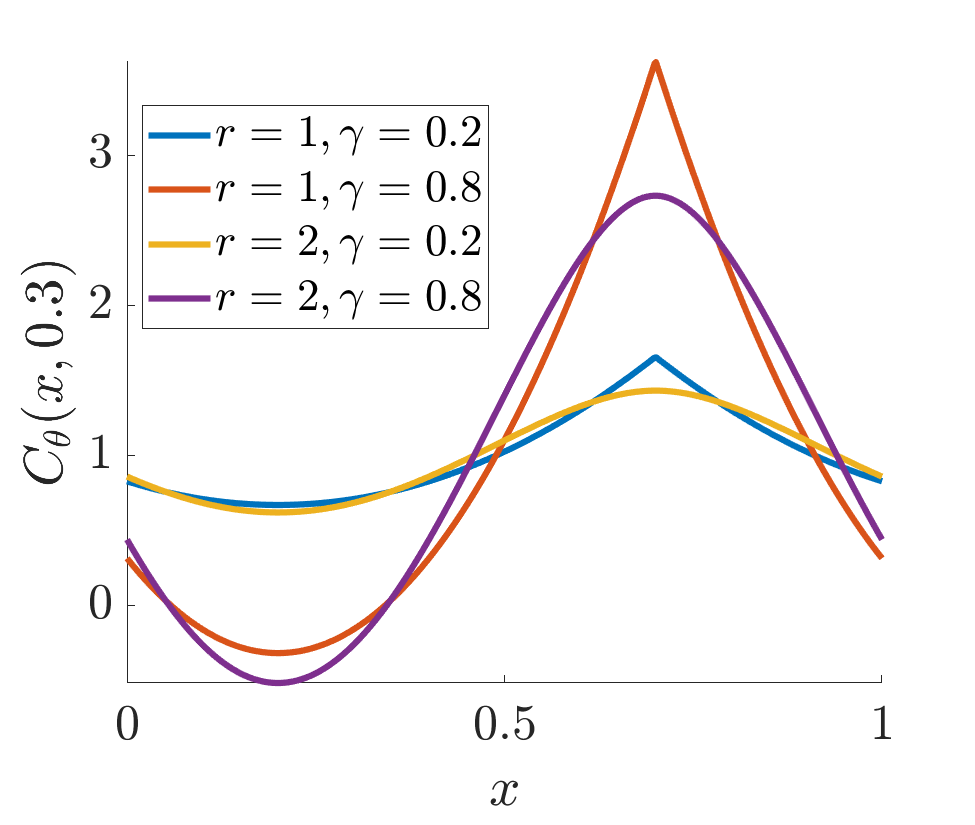
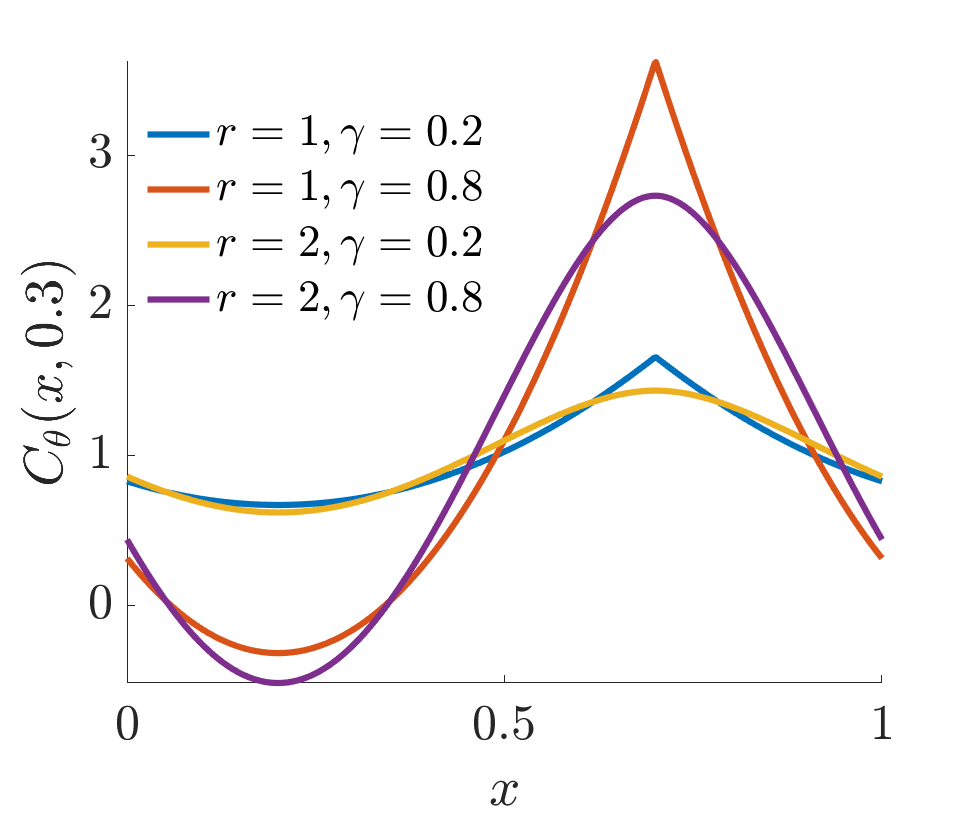
update changes

diff --git a/GAIL_Matlab/Papers/Thesis/Jagadees/Paper2018/BayesianCubaturePaper2018.tex b/GAIL_Matlab/Papers/Thesis/Jagadees/Paper2018/BayesianCubaturePaper2018.tex
@@ -188,7 +188,7 @@
 
 \providecommand{\argmin}{\operatorname*{argmin}}
 \providecommand{\argmax}{\operatorname*{argmax}}
-\newcommand\figref{Fig.~\ref}
+\newcommand\figref{Figure~\ref}
 \newcommand\secref{Section~\ref}
 
 \graphicspath{{./figures/}{D:/Mega/MyWriteupBackup/Sep_2ndweek_1/}}
@@ -203,7 +203,7 @@
 \newcommand{\JRNote}[1]{{\textcolor{green}{JR: #1}}}
 
 
-\allowdisplaybreaks[4]
+%\allowdisplaybreaks[4]
 \begin{document}
 \setlength\abovedisplayskip{1pt}
 \setlength{\belowdisplayskip}{1pt}
@@ -251,13 +251,13 @@
 
 \begin{abstract}
 Automatic cubatures approximate multidimensional integrals to user-specified error tolerances.  For high dimensional problems, it makes sense to fix the sampling density but determine the 
-sample size, $n$, automatically. Bayesian cubature postulates that the integrand is an instance of a stochastic process.  Here we assume a Gaussian process parameterized by a constant mean and a covariance function defined by a scale parameter and a function specifying how the integrand values at two different points in the domain are related.
-These parameters are estimated from integrand values or are given non-informative priors.  This leads to credible interval for the integral.  The sample size, $n$, is chosen to make the credible interval for the Bayesian posterior error no greater than the error tolerance. 
+sample size, $n$, automatically. Bayesian cubature postulates that the integrand is an instance of a stochastic process.  Here we assume a Gaussian process parameterized by a constant mean and a covariance function defined by a scale parameter times a parameterized function specifying how the integrand values at two different points in the domain are related.
+These parameters are estimated from integrand values or are given non-informative priors.  The sample size, $n$, is chosen to make the half-width of the credible interval for the Bayesian posterior mean no greater than the error tolerance. 
 
-However, the process just outlined typically requires vector-matrix operations  with a computational cost of $O(n^3)$. Our innovation is to pair low discrepancy nodes with matching kernels that lower the  computational cost to $O(n \log n)$.   This approach is demonstrated using rank-1 lattice sequences and shift-invariant kernels.  It is also implemented in the Guaranteed Automatic Integration Library (GAIL).
+The process just outlined typically requires vector-matrix operations  with a computational cost of $O(n^3)$. Our innovation is to pair low discrepancy nodes with matching kernels that lower the  computational cost to $O(n \log n)$.   This approach is demonstrated using rank-1 lattice sequences and shift-invariant kernels.  Our algorithm is  implemented in the Guaranteed Automatic Integration Library (GAIL).
 
 
-\keywords{Bayesian cubature \and Probabilistic numeric methods \and GAIL}
+\keywords{Bayesian cubature \and Fast automatic cubature \and GAIL \and Probabilistic numeric methods }
 % \PACS{PACS code1 \and PACS code2 \and more}
 % \subclass{MSC code1 \and MSC code2 \and more}
 \end{abstract}
@@ -265,23 +265,23 @@ However, the process just outlined typically requires vector-matrix operations  
 \section{Introduction}
 \label{intro}
 Cubature is the problem of inferring a numerical value for an integral, 
-$ \mu := \int_{\reals^d} g(\vx) \, \dif \vx$, where $\mu$ has no closed form analytic expression. Typically, $g$ is accessible through a black-box function. 
+$ \mu := \int_{\reals^d} g(\vx) \, \dif \vx$, where $\mu$ has no closed form analytic expression. Typically, $g$ is accessible as a black-box algorithm. 
 Cubature is a key component of many problems in scientific computing, finance, statistical modeling, and machine learning.  
 
 The integral may often be expressed as
 \begin{align}
 \label{eqn:defn_mu}
-\mu:= \mu(f) := \Ex[f(\boldsymbol{X})] = \int_{[0,1]^d} f(\vx)\, \dif\vx, 
+\mu:= \Ex[f(\boldsymbol{X})] = \int_{[0,1]^d} f(\vx)\, \dif\vx, 
 \end{align}
-where $f:[0,1]^d \to \reals$ is the integrand, and $\boldsymbol{X} \sim \mathcal{U}[0,1]^d$.  The process of transforming the original integral into the form of \eqref{eqn:defn_mu} is not addressed here. See \cite{Caf98,HicSloWas03c,HicSloWas03b,HicSloWas03a,HicSloWas03e}
-for some discussion of variable transformations and the related error analysis. The cubature may be an affine function of integrand values:
+where $f:[0,1]^d \to \reals$ is the integrand, and $\boldsymbol{X} \sim \mathcal{U}[0,1]^d$.  The process of transforming the original integral into the form of \eqref{eqn:defn_mu} is not addressed here. See \cite[Section 2.11]{DicEtal14a} 
+for a discussion of variable transformations. The cubature may be an affine function of integrand values:
 \begin{align}
 \label{eqn:defn_hmu}  % remove this
-\hmu: = \hmu(f) := w_0 + \sum_{i=1}^{n} f(\vx_i) w_i,
+\hmu := w_0 + \sum_{i=1}^{n} f(\vx_i) w_i,
 \end{align}
 where the weights, $w_0$, and  $\vw = (w_i)_{i=1}^n \in \reals^n$, and the nodes, $\{\vx_i\}_{i=1}^n \subset [0,1]^d$, are chosen to make the error, $\abs{\mu - \hmu}$, small. The integration domain $[0,1]^d$ is convenient for the low discrepancy node sets \cite{DicEtal14a,SloJoe94} that we use.  The nodes are assumed to be deterministic.
 
-We construct a reliable stopping criterion that determines the number of integrand values required, $n$, to ensure that the error is no greater than a user-defined error tolerance denoted by $\varepsilon$, i.e., 
+We construct a reliable stopping criterion that determines the number of integrand values, $n$, required to ensure that the error is no greater than a user-defined error tolerance denoted by $\varepsilon$, i.e., 
 \begin{align}
 \label{eqn:err_crit} 
 \abs{\mu - \hmu} \leq \errtol .
@@ -290,9 +290,9 @@ Rather than relying on strong assumptions about the integrand, such as an upper 
 
 The primary contribution of this article is to demonstrate how the choice of a family of covariance kernels that match the low discrepancy sampling nodes facilitates fast computation of the cubature and the data-driven stopping criterion.  Our cubature requires $n$ function values---at a cost of $\$(f)$ each---plus $\Order(n \log(n))$ operations to check whether the error tolerance is satisfied.  The total cost of our algorithm is then $\Order(n [\$(f) + \log(n)])$.  This is significantly fewer operations than the $\Order(n^3)$ typically required for Bayesian cubature.  If function evaluation is expensive, then $\$(f)$ might be similar in magnitude to $\log(n)$.
 
-Hickernell~\cite{Hic17a} compares different approaches to cubature error analysis depending on whether the rule is deterministic or random and whether the integrand is assumed to be deterministic or random.  Error analysis that assumes a deterministic integrand lying in a Banach space leads to an error bound that is typically impractical for deciding how large $n$ must be to satisfy \eqref{eqn:err_crit}.  The deterministic error bound includes a (semi-) norm of the integrand, which is often more complex to compute than the original integral.
+Hickernell~\cite{Hic17a} compares different approaches to cubature error analysis depending on whether the rule is deterministic or random and whether the integrand is assumed to be deterministic or random.  Error analysis that assumes a deterministic integrand lying in a Banach space leads to an error bound that is typically impractical for deciding how large $n$ must be to satisfy \eqref{eqn:err_crit}.  The deterministic error bound includes a (semi-) norm of the integrand, often called the variation, which is often more complex to compute than the original integral.
 
-Hickernell and Jim\'enez-Rugama~\cite{HicJim16a,JimHic16a} have developed stopping criteria for cubature rules based on low discrepancy nodes by tracking the decay of the discrete Fourier coefficients of the integrand.  The algorithm proposed here also relies on discrete Fourier coefficients, but in a different way.  Although we only explore automatic Bayesian cubature for absolute error tolerances, the recent work by Hickernell, Jim\'enez-Rugama, and Li~\cite{HicEtal17a} suggest how one might accommodate more general error criteria, such as relative error tolerances.
+Hickernell and Jim\'enez-Rugama~\cite{HicJim16a,JimHic16a} have developed stopping criteria for cubature rules based on low discrepancy nodes by tracking the decay of the discrete Fourier coefficients of the integrand.  The algorithm proposed here also relies on discrete Fourier coefficients, but in a different way.  Although we only explore automatic Bayesian cubature for absolute error tolerances, the recent work by Hickernell, Jim\'enez-Rugama, and Li~\cite{HicEtal17a} suggests how one might accommodate more general error criteria, such as relative error tolerances.
 
 Section \ref{sec:BC} explains the Bayesian approach to estimate the posterior cubature error and defines our automatic Bayesian cubature. Although much of this material is known, it is included for completeness.  We end Section \ref{sec:BC}  by demonstrating why Bayesian cubature is typically computationally expensive.
 Section \ref{sec:fast_BC}  introduces the concept of covariance kernels that match the nodes and expedite the computations required by our automatic Bayesian cubature. 
@@ -312,7 +312,7 @@ Suppose that the integrand, $f$, is drawn from a Gaussian process, i.e., $f \sim
  \text{for all } \va \ne 0, \;
  n\in \mathbb{N}, \; \vx_1, \ldots, \vx_n \in [0,1]^d.
 \end{multline}
-The covariance function, $C$, and the Gram matrix, $\mC$ depend implicitly on $\vtheta$, but the notation may omit this parameter for simplicity's sake.
+The function, $C$, and the Gram matrix, $\mC$ depend implicitly on $\vtheta$, but the notation may omit this parameter for simplicity's sake.
 
 For a Gaussian process, all vectors of linear functionals of $f$ have a multivariate Gaussian distribution. Defining  $\vf  := \left( f(\vx_i)\right)_{i=1}^n$ as the multivariate normal vector of function values, it follows that 
 \begin{subequations} \label{eqn:fGaussDist}
@@ -326,7 +326,7 @@ c_0 &= \int_{[0,1]^{d}\times [0,1]^{d}} C_\vtheta(\vx,\vt) \, \dif{\vx} \, \dif{
 \cov(\vf, \mu) &= \left(  \int_{[0,1]^d} C(\vt,\vx_i) \, \D \vt \right)_{i=1}^n  =: \vc.
 \end{align}
 \end{subequations}
-We need the following lemma to derive the posterior error of our cubature. 
+We need the following lemma to derive the distribution of the posterior error of our cubature. 
 
 \begin{lemma} \cite[(A.6), (A.11--13)]{RasWil06a} \label{thrm:condDist} If $\vY = (\vY_1, \vY_2)^T \sim \calN (\vm,\mC)$, where $\vY_1$ and $\vY_2$ are random vectors of arbitrary length, and 
 	\begin{gather*}
@@ -378,17 +378,21 @@ s^2 (c_0 - \vc^T\mC^{-1}\vc)
 \right).
 \end{align*}
 A credible interval for the integral is given given by 
-\begin{align}
-\label{eqn_prob_confidence_interval}
+\begin{subequations} \label{eqn_prob_confidence_interval}
+\begin{gather}
 \mathbb{P}_f \left[
-|\mu-\hmu| \leq  2.58 s \sqrt{c_0 - \vc^T\mC^{-1}\vc } 
-\right] = 99\%.
-\end{align}
+|\mu-\hmu| \leq \err_{\textup{CI}}
+\right] = 99\%, \\
+\err_{\textup{CI}} = 2.58 s \sqrt{c_0 - \vc^T\mC^{-1}\vc}
+\end{gather}
+\end{subequations}
 Naturally, $2.58$ and $99\%$ can be replaced by other quantiles and credible levels.
 
 
 \subsection{Parameter estimation}
-The credible interval in \eqref{eqn_prob_confidence_interval} suggests how our automatic Bayesian cubature proceeds.  Integrand data is accumulated until the width of the credible interval is no greater than the error tolerance.  However, the credible interval still depends on the parameters $m, s$, and $\vtheta$.  These should not be assumed a priori but be inferred from the data.  This section describes three approaches.
+The credible interval in \eqref{eqn_prob_confidence_interval} suggests how our automatic Bayesian cubature proceeds.  Integrand data is accumulated until the width of the credible interval, $\err_{\textup{CI}}$, is no greater than the error tolerance.  As $n$ increases, one expects $\sqrt{c_0 - \vc^T\mC^{-1}\vc}$ to decrease for well-chosen nodes, $\{\vx_i\}_{i=1}^n$.
+
+Note that $\err_{\textup{CI}}$ has no explicit dependence on the integrand values, even though one would intuitively expect that larger integrand should imply a  larger $\err_{\textup{CI}}$.  This is because parameters, $m, s$, and $\vtheta$, have not yet been inferred from integrand data.  After inferring the parameters, $\err_{\textup{CI}}$ does reflect the size of the integrand values. This section describes three approaches to parameter estimation.
 
 \subsubsection{Empirical Bayes}  \label{sec:MLE}
 One approach is to estimate the parameters is via maximum likelihood estimation (MLE).  The log-likelihood function of the parameters given the function data $\vy$ is:
@@ -456,16 +460,17 @@ Rather than use maximum likelihood to determine $m$ and $s$ one can treat them a
 \begin{align*}
 \MoveEqLeft[1]{\rho_{\mu}(z | \vf = \vy)} \\
 & \propto \int_{0}^\infty \int_{-\infty}^\infty \rho_{\mu}(z | \vf = \vy, m = \xi, s^2 = \lambda) \\
-& \qquad \qquad \times  \rho_{\vf}(\vy | \xi, \lambda ) \rho_{m, s^2}(\xi, \lambda) \, \D \xi \D \lambda \\
+& \hspace{2.5cm} \times  \rho_{\vf}(\vy | \xi, \lambda ) \rho_{m, s^2}(\xi, \lambda) \, \D \xi \D \lambda \\
 & \propto \displaystyle \int_{0}^\infty  \frac{1}{\lambda^{(n+3)/2}} \\
 & \times \int_{-\infty}^\infty  \exp \biggl( -\frac{1}{2\lambda}\biggl\{
 \frac{
 [z - \xi (1 - \vc^T \mC^{-1} \vone)  -  \vc^T \mC^{-1} \vy]^2}
 {c_0  -\vc ^T \mC^{-1} \vc}  \\
-& \qquad \qquad  + (\vy - \xi \vone)^T \mC^{-1}(\vy - \xi \vone) \biggr \} \biggr) \, \D \xi \D \lambda \\
-&\qquad \qquad
+& \hspace{1.8cm} + (\vy - \xi \vone)^T \mC^{-1}(\vy - \xi \vone) \biggr \} \biggr) \, \D \xi \D \lambda \\
+& \hspace{2.5cm}
 \text{by \eqref{eqn:fGaussDist}, \eqref{eqn:condInteg}} \; \text{and} \; \rho_{m,s^2}(\xi,\lambda) \propto 1/\lambda \\
-& \propto \displaystyle \int_{0}^\infty  \frac{1}{\lambda^{(n+3)/2}} \cdots \\ & \qquad \cdots \int_{-\infty}^\infty  \exp\left( -\frac{\alpha \xi^2 -2 \beta \xi + \gamma}{2\lambda(c_0  -\vc ^T \mC^{-1} \vc)} \right) \, \D \xi \D \lambda, \\
+& \propto \displaystyle \int_{0}^\infty  \frac{1}{\lambda^{(n+3)/2}} \cdots \\ 
+& \qquad \cdots \int_{-\infty}^\infty  \exp\left( -\frac{\alpha \xi^2 -2 \beta \xi + \gamma}{2\lambda(c_0  -\vc ^T \mC^{-1} \vc)} \right) \, \D \xi \D \lambda, \\
 \intertext{where}
 \alpha & = (1 - \vc^T \mC^{-1} \vone)^2 + \vone^T \mC^{-1} \vone (c_0  -\vc ^T \mC^{-1} \vc),\\
 \beta & =(1 - \vc^T \mC^{-1} \vone)(z - \vc^T \mC^{-1} \vy ) \\
@@ -474,7 +479,7 @@ Rather than use maximum likelihood to determine $m$ and $s$ one can treat them a
 \end{align*}
 In the derivation above and below, factors that are independent of $\xi$, $\lambda$, or $z$ can be discarded since we only need to preserve the proportion.  But, factors that depend on $\xi$, $\lambda$, or $z$ must be kept.  
 %Completing the square allows us to compute the integral with respect to $\xi$:
-Completing the square $
+Completing the square, $
 \alpha \xi^2 -2 \beta \xi + \gamma 
 = \alpha (\xi -\beta/\alpha)^2  - (\beta^2/\alpha) + \gamma,
 $
@@ -588,7 +593,7 @@ The confidence interval based on GCV corresponds to \eqref{eqn_prob_confidence_i
 \right] = 99\%.
 \end{gather}
 
-Looking back over the results of Sections  \ref{sec:MLE}--\ref{sec:GCV}, it is noted that if the original covariance function, $C$, is replaced by $b C$ for some positive constant $b$, the cubature, $\hmu$, the estimates of $\vtheta$, and the credible interval widths, $\err$, all remain unchanged.  The estimates of $s^2$ are multiplied by $b^{-1}$, as would be expected. 
+Looking back over the results of Sections  \ref{sec:MLE}--\ref{sec:GCV}, it is noted that if the original covariance function, $C$, is replaced by $b C$ for some positive constant $b$, the cubature, $\hmu$, the estimates of $\vtheta$, and the credible interval widths, $\err_{\textup{CI}}$, all remain unchanged.  The estimates of $s^2$ are multiplied by $b^{-1}$, as would be expected. 
 
 
 \subsection{The automatic Bayesian cubature algorithm}
@@ -612,13 +617,13 @@ Our  Bayesian cubature algorithm increases the sample size until the width of th
   	$\varepsilon>0$; the positive initial sample size, $n_0$;
   	the maximum sample size $n_{\textup{max}}$
   	
-      \State $n \gets n_0, \; n' \gets 0, \; \err \gets \infty$
+      \State $n \gets n_0, \; n' \gets 0, \; \err_{\textup{CI}} \gets \infty$
       
-      \While{$\err > \varepsilon$ and $n \le n_{\textup{max}}$}
+      \While{$\err_{\textup{CI}} > \varepsilon$ and $n \le n_{\textup{max}}$}
       
         \State\label{LoopStart}Generate $\{ \vx_i\}_{i=n' + 1}^{n}$ and sample $\{f(\vx_i)\}_{i=n'+1}^{n}$
         \State Compute $\vtheta$ by \eqref{eqn:thetaMLE} or \eqref{vthetaGCV}
-        \State Compute $\err$  according to \eqref{eqn:errMLE}, \eqref{FJH:eq:errFull}, or \eqref{GCVerr}
+        \State Compute $\err_{\textup{CI}}$  according to \eqref{eqn:errMLE}, \eqref{FJH:eq:errFull}, or \eqref{GCVerr}
         
        	\State	$n' \gets n, \; n \gets 2n'$
         
@@ -626,7 +631,7 @@ Our  Bayesian cubature algorithm increases the sample size until the width of th
         
         \State Update sample size to compute $\hmu$, $n \gets n'$
         \State Compute $\hmu$, the approximate integral,   according to \eqref{eqn:cubMLE} or \eqref{eqn:muCV}
-      \State \Return $\hmu, \; n$  and $\err$
+      \State \Return $\hmu, \; n$  and $\err_{\textup{CI}}$
   \end{algorithmic}
 \end{algorithm}
 
@@ -636,7 +641,7 @@ To demonstrate automatic Bayesian cubature consider a Mat\'ern covariance kernel
 \begin{align*}
 C_{\theta}(\vx, \vt) = \prod_{k=1}^d \exp(-\theta|\vx_k-\vt_k|)(1+\theta |\vx_k-\vt_k|),
 \end{align*}
-and Sobol points as the design.
+and Sobol points as the nodes.
 Also, consider the integration problem of evaluating  \emph{multivariate normal probabilities}:
 \begin{align}
 \label{eqn:GaussDef}
@@ -708,7 +713,7 @@ The node sets are randomly scrambled Sobol points \cite{DicEtal14a,DicPil10a}.  
 %On our test computer, 
 As shown in \figref{fig:MVN_Metern_d2b2}, computation time increases rapidly with $n$. 
 The  maximum likelihood estimation of $\vtheta$, which requires repeated evaluation of the objective function, is the most time consuming of all. It takes tens of seconds to compute $\hmu_n$ once with $\varepsilon = 10^{-5}$.   In contrast, this example in Section \ref{sec:NumExp} take less than a hundredth of a second to compute $\hmu_n$ once with $\varepsilon = 10^{-5}$ using our new algorithm. Not only is the Bayesian cubature with the the Mat\'ern kernel slow, but also $\mC$ becomes highly ill-conditioned as $n$ increases.
-So, Algorithm \ref{algorithm1}  in its current form is not practical. 
+So, Algorithm \ref{algorithm1}  in its current form is impractical. 
 %\FJHNote{Jags, please check this re-write} %\JRNote{looks good}
 
 \begin{figure}
@@ -722,10 +727,10 @@ So, Algorithm \ref{algorithm1}  in its current form is not practical.
 
 \section{Fast Automatic Bayesian Cubature}\label{sec:fast_BC}
 
-The generic automatic Bayesian cubature algorithm described in the last section requires $\Order(n^3)$ operations to estimate $\vtheta$, compute the credible interval width, and compute the cubature. Now we explain how to speed up the calculations. A key is to choose kernels that match the design, $\{\vx_i\}_{i=1}^n$, so that the vector-matrix operations required by Bayesian cubature can be accomplished using fast transforms at a cost of $\Order(n \log(n))$.
+The generic automatic Bayesian cubature algorithm described in the last section requires $\Order(n^3)$ operations to estimate $\vtheta$, compute the credible interval width, and compute the cubature. Now we explain how to speed up the calculations. A key is to choose kernels that match the nodes, $\{\vx_i\}_{i=1}^n$, so that the vector-matrix operations required by Bayesian cubature can be accomplished using fast transforms at a cost of $\Order(n \log(n))$.
 
 \subsection{Fast Transform Kernel}
-We make some assumptions about the relationship between the covariance kernel and the design, which will be shown to hold in Section \ref{sec:shift_invariant_kernel} for rank-1 lattices and shift-invariant kernels.  First we introduce the notation
+We make some assumptions about the relationship between the covariance kernel and the nodes, which will be shown to hold in Section \ref{sec:shift_invariant_kernel} for rank-1 lattices and shift-invariant kernels.  First we introduce the notation
 \begin{align}
 \nonumber
 \mC &= \Big(C_\vtheta(\vx_i,\vx_j)\Big)_{i,j=1}^n  = (\vC_1,...,\vC_n) 
@@ -940,13 +945,13 @@ In this case too, $\hmu$ is simply the sample mean.
 \section{Integration Lattices and Shift Invariant Kernels}
 \label{sec:shift_invariant_kernel}
 
-The preceding sections lay out an automatic Bayesian cubature algorithm whose computational cost is only $\Order(n \log(n))$ if $n$ function values are used.  However, this algorithm relies on covariance kernel functions, $C$ and designs, $\{\vx_i\}_{i=1}^n$ that satisfy assumptions \eqref{fastcompAssump}.  We will also satisfy assumption \eqref{addAssump}.  
+The preceding sections lay out an automatic Bayesian cubature algorithm whose computational cost is only $\Order(n \log(n))$ if $n$ function values are used.  However, this algorithm relies on covariance kernel functions, $C$ and node sets, $\{\vx_i\}_{i=1}^n$ that satisfy assumptions \eqref{fastcompAssump}.  We  also want to satisfy assumption \eqref{addAssump}.  
 %To facilitate the fast transform, it is assumed in this section and the next that $n$ is power of $2$.  
-To facilitate the fast transform, $n$ must be power of $2$, it is the reason we assumed it in Algorithm \ref{algorithm1}.  
+To facilitate the fast transform, $n$ must be power of $2$.  
 
 \subsection{Extensible Integration Lattice Node Sets}
 
-The design or set of nodes used is defined by a shifted extensible integration lattice node sequence, which takes the form
+The set of nodes used is defined by a shifted extensible integration lattice node sequence, which takes the form
 \begin{equation*}
 \vx_{i} = \vh \phi(i-1) + \vDelta \mod \vone, \qquad i \in \naturals.
 \end{equation*} 
@@ -961,7 +966,7 @@ i & 0_2 & 1_2 & 10_2 & 11_2 & 100_2 & 101_2 & 110_2 & 111_2  & \cdots\\
 \end{array}
 \end{align}
 
-An example of $64$ nodes is given in \figref{latticefig}.  The even coverage of the unit cube is ensured by a well chosen generating vector.  The choice of generating vector is typically done offline by computer search.  See \cite{DicEtal14a} and \cite{HicNie03a} for more on extensible integration lattices.
+An example of $64$ nodes is given in \figref{latticefig}.  The even coverage of the unit cube is ensured by a well chosen generating vector.  The choice of generating vector is typically done offline by computer search.  See \cite{DicEtal14a,HicNie03a} for more on extensible integration lattices.
 \begin{figure}[htp]
 	\centering
 	\includegraphics[height=5cm]{ShiftedLatticePoints}
@@ -984,7 +989,7 @@ C_\vtheta(\vt, \vx) =
 1 - (-1)^{r} \gamma B_{2r}( |{x_l-t_l}| ) \biggr], \\  
 \forall \vt,\vx \in [0,1]^d, \  \vtheta = (r,\gamma), \ r \in \naturals, \ \gamma > 0.
 \end{multline}
-Symmetric, periodic, positive definite kernels of this form appear in  \cite{DicEtal14a} and \cite{Hic96a}.  The Bernoulli polynomials are described in \cite[Chapter 24]{OlvEtal10a}.
+Symmetric, periodic, positive definite kernels of this form appear in  \cite{DicEtal14a,Hic96a}.  Bernoulli polynomials are described in \cite[Chapter 24]{OlvEtal10a}.
 
 Larger $r$ implies a greater degree of smoothness of the kernel.  Larger $\gamma$ implies greater fluctuations of the output with respect to the input.  Plots of $C(\cdot, 0.3)$ are given in \figref{fig:fourierkernel-dim1} for various $r$ and $\gamma$ values.
 
@@ -1173,13 +1178,13 @@ The computational steps for the improved, faster, automatic Bayesian cubature ar
 		$\varepsilon>0$; the positive initial sample size, $n_0$;
 		the maximum sample size $n_{\textup{max}}$
 		
-		\State $n \gets n_0, \; n' \gets 0, \; \err \gets \infty$
+		\State $n \gets n_0, \; n' \gets 0, \; \err_{\textup{CI}} \gets \infty$
 		
-		\While{$\err > \varepsilon$ and $n \le n_{\textup{max}}$}
+		\While{$\err_{\textup{CI}} > \varepsilon$ and $n \le n_{\textup{max}}$}
 		
 		\State\label{LoopStart}Generate $\{ \vx_i\}_{i=n' + 1}^{n}$ and sample $\{f(\vx_i)\}_{i=n'+1}^{n}$
 		\State Compute $\vtheta$ by \eqref{thetaSimpleMLE} or \eqref{thetaSimpleGCV}
-		\State Compute $\err$  according to \eqref{fastStoppingCriterionMLE}, \eqref{fastStoppingCriterionFull}, or \eqref{fastStoppingCriterionGCV}
+		\State Compute $\err_{\textup{CI}}$  according to \eqref{fastStoppingCriterionMLE}, \eqref{fastStoppingCriterionFull}, or \eqref{fastStoppingCriterionGCV}
 		
 		\State	$n' \gets n, \; n \gets 2n'$
 		
@@ -1187,7 +1192,7 @@ The computational steps for the improved, faster, automatic Bayesian cubature ar
 		
 		\State Update sample size to compute $\hmu$, $n \gets n'$
 		\State Compute $\hmu$, the approximate integral,   according to \eqref{muhatGCV-FB-MLE-Simple}
-		\State \Return $\hmu, \; n$  and $\err$
+		\State \Return $\hmu, \; n$  and $\err_{\textup{CI}}$
 	\end{algorithmic}
 \end{algorithm}
 
@@ -1244,19 +1249,19 @@ Periodizing variable transforms are used for the numerical examples below. In so
 \subsection{Test Results and Observations}
 %\label{sec:numerical_experiments}
 
-Three integrals were evaluated using the GAIL algorithm \code{cubBayesLattice\_g}:  a multivariate normal probability, the Keister's example, and an option pricing example.  Four different error tolerances, $\varepsilon$,  were set for each example, with the tolerances chosen depending on the difficulty of the problem.  The nodes were the randomly shifted lattice rules supplied by GAIL. Depending on the shift, accuracy of the algorithm differs. For each integral,  each tolerance, and each of our stopping criteria---empirical Bayes, full Bayes, and generalized cross-validation---our algorithm was run  $100$ times.  For each test, the execution times were plotted against $\abs{\mu - \hmu}/\varepsilon$.  We expect $\abs{\mu - \hmu}/\varepsilon$ to be no greater than one, but hope that it is not too much smaller than one, which would indicate a stopping criterion that is too conservative. 
+Three integrals were evaluated using the GAIL algorithm \code{cubBayesLattice\_g}:  a multivariate normal probability, the Keister's example, and an option pricing example.  Four different error tolerances, $\varepsilon$,  were set for each example, with the tolerances chosen depending on the difficulty of the problem.  The sequences $\{\vx_i\}_{i=1}^\infty$ were the randomly shifted lattice node sequences supplied by GAIL. The accuracy of the algorithm differs depends on the shift. For each integral,  each tolerance, and each of our stopping criteria---empirical Bayes, full Bayes, and generalized cross-validation---our algorithm was run for $100$ different random shifts.  For each test, the execution times were plotted against $\abs{\mu - \hmu}/\varepsilon$.  We expect $\abs{\mu - \hmu}/\varepsilon$ to be no greater than one, but hope that it is not too much smaller than one, which would indicate a stopping criterion that is too conservative. 
 
 Figures \ref{fig:mvn-guaranteed-MLE} to \ref{fig:optprice-guaranteed-GCV} can be reproduced using the script \code{cubBayesLattice\_guaranteed\_plots.m} in GAIL.
 
 
 \paragraph{Multivariate Normal Probability.}
 
-This example was already introduced in Section \ref{MVN_example}, where we used the Mat\'ern covariance kernel.  Here we apply Sidi's $C^2$  periodization to $ f_{\textup{Genz}}$ \eqref{fGenzdef}, choose $d=3$ and $r=2$. The simulation results for this example function are summarized in Figures \ref{fig:mvn-guaranteed-MLE}, \ref{fig:mvn-guaranteed-FB}, and \ref{fig:mvn-guaranteed-GCV}.  In all cases, the Bayesian cubature returns an approximation within the prescribed error tolerance. We used the same setting as before with generic slow Bayesian cubature in \secref{MVN_example} for comparison. For error threshold $\varepsilon=10^{-5}$ with empirical stopping criterion, our fast algorithm takes 0.001 second as shown in \figref{fig:mvn-guaranteed-MLE} whereas the basic algorithm takes 30 seconds as shown in \figref{fig:MVN_Metern_d2b2}. 
+This example was already introduced in Section \ref{MVN_example}, where we used the Mat\'ern covariance kernel.  Here we apply Sidi's $C^2$  periodization to $ f_{\textup{Genz}}$ \eqref{fGenzdef}, choose $d=3$ and $r=2$. The simulation results for this example function are summarized in Figures \ref{fig:mvn-guaranteed-MLE}, \ref{fig:mvn-guaranteed-FB}, and \ref{fig:mvn-guaranteed-GCV}.  In all cases, the Bayesian cubature returns an approximation within the prescribed error tolerance. We used the same setting as before with generic slow Bayesian cubature in \secref{MVN_example} for comparison. For error threshold $\varepsilon=10^{-5}$ with the empirical Bayes stopping criterion, our fast algorithm takes just under 0.01 second as shown in \figref{fig:mvn-guaranteed-MLE} whereas the basic algorithm takes over 20 seconds as shown in \figref{fig:MVN_Metern_d2b2}. 
 
 % breaking it a paragraph here, otherwise it looks big
-Amongst the three stopping criteria, GCV achieved the results faster than others. 
-One can also observe from the figures, the credible intervals are wider, causing the true error much smaller than requested.
-This could be due to the periodization transformed $f_\textup{Genz}$ being smoother than the $r=2$ kernel could approximate. Using a kernel of matching smoothness could produce better credible intervals.
+Amongst the three stopping criteria, GCV achieves the desired tolerance faster than the others. 
+One can also observe from the figures, the credible intervals are in general much wider than the true error.
+This could be due to the periodized integrand being smoother than the $r=2$ kernel assumes. Perhaps one should consider smoother covariance kernels.
 
 \begin{figure}
 	\centering
@@ -1329,7 +1334,7 @@ I_s(j) &= \frac{(j-2)I_s(j-2)-I_c(j-1)}{2},
 \end{figure}
 
 Figures \ref{fig:keister-guaranteed-MLE}, \ref{fig:keister-guaranteed-FB} and \ref{fig:keister-guaranteed-GCV} summarize the numerical tests for this integral.  We used the Sidi's $C^1$ periodization, dimension $d=4$, and $r=2$. 
-As we can see, the GCV stopping criterion achieved the results faster than the others, similar to the multivariate normal case.
+As we can see, the GCV stopping criterion achieves faster results than the other stopping criteria, similarly to the multivariate normal case.
 
 \paragraph{Option Pricing.}
 
@@ -1345,7 +1350,7 @@ f(\vx) &= \text{payoff} \left(\mL
 \Phi^{-1}(x_1) \\ \vdots \\ \Phi^{-1}(x_d)
 \end{pmatrix} \right).
 \end{align*}
-The Asian (arithmetic mean) call option has a payoff of the form
+The Asian arithmetic mean call option has a payoff of the form
 \begin{align*}
 \text{payoff}(\vz) &= \max\left( \frac 1d  \sum_{j=1}^d S_j(\vz) - K, 0 \right) \me^{-r T}, \\
 \text{where}\;
@@ -1381,10 +1386,10 @@ Because the integrand has a kink caused by the $\max$ function, it does not help
 \end{figure}
 
 
-As shown in Figures \ref{fig:mvn-guaranteed-MLE} to \ref{fig:optprice-guaranteed-GCV}, Bayesian cubature algorithm computes the integral within  user-specified threshold most of the times except on a few occasions. This is especially the case with option pricing example due to the complexity and high dimension of the integrand. 
-Also notice, our algorithm finished within 10 seconds for Keister and multivariate Normal examples while the option pricing took closer to 70 seconds. This is again due to the complexity of the integrand.
+In summary,  as shown in Figures \ref{fig:mvn-guaranteed-MLE} to \ref{fig:optprice-guaranteed-GCV}, the Bayesian cubature algorithm computes the integral within the user-specified threshold in nearly all of the test cases.  The exceptions sometimes occurred in the option pricing example due to the complexity and high dimension of the integrand. 
+Also notice, our algorithm finished within 10 seconds for Keister and multivariate Normal examples while the option pricing took closer to 70 seconds, again due to the complexity of the integrand.
 
-Another noticeable aspect from the plots is how much the error bounds differ from the true error. For option pricing example, the error bound is not as conservative as it is for the multivariate normal and Keister examples. A possible reason is that the latter integrands are significantly smoother than the covariance kernel used.  This is a matter for further investigation.
+Another noticeable aspect from the plots is how much the error bounds differ from the true error. For option pricing example, the error bound is not as conservative as it is for the multivariate normal and Keister examples. A possible reason is that the latter integrands are significantly smoother than the covariance kernel assumed.  This is a matter for further investigation.
 
 
 \iffalse
@@ -1439,9 +1444,11 @@ Thus, the elements of $\vZ$ are IID standard Gaussian random variables.
 
 \section{Discussion and Further Work}
 
-We have developed a fast, automatic Bayesian cubature that estimates a multidimensional definite integral within a user defined error tolerance.  The stopping criteria arise from assuming the integrand to be a Gaussian process.  There are three approaches:  empirical Bayes, full Bayes, and generalized cross-validation.  The computational cost of the automatic Bayesian cubature can be dramatically reduced if the covariance kernel matches the nodes.  We have demonstrated one such match in practice: rank-1 lattice nodes and shift-invariant kernels.  The matrix-vector multiplications can be accomplished using the fast Fourier Transform.  The performance of our automatic Bayesian cubature was illustrated using three integration problems.  
+We have developed a fast, automatic Bayesian cubature that estimates a multidimensional definite integral within a user defined error tolerance.  The stopping criteria arise from assuming the integrand to be a Gaussian process.  There are three approaches:  empirical Bayes, full Bayes, and generalized cross-validation.  The computational cost of the automatic Bayesian cubature can be dramatically reduced if the covariance kernel matches the nodes.  One such match in practice is rank-1 lattice nodes and shift-invariant kernels.  The matrix-vector multiplications can be accomplished using the fast Fourier Transform.  The performance of our automatic Bayesian cubature are illustrated using three integration problems.  
 
-Digital sequences and digital shift and/or scramble invariant kernels have the potential of being another match that satisfies the conditions in Section \ref{sec:fast_BC}.  The fast transform would correspond to a fast Walsh transform.  For such kernels, periodicity is not assumed; however, special structure of both the sequences and the kernels are required to take advantage of integrand smoothness.
+Digital sequences and digital shift and/or scramble invariant kernels have the potential of being another match that satisfies the conditions in Section \ref{sec:fast_BC}.  The fast transform would correspond to a fast Walsh transform.  
+
+%For such kernels, periodicity is not assumed; however, special structure of both the sequences and the kernels are required to take advantage of integrand smoothness.
 
 One should be able to adapt our Bayesian cubature to control variates, i.e., assuming  
 \begin{equation*}

diff --git a/GAIL_Matlab/Papers/Thesis/Jagadees/plot_fourier_kernel.m b/GAIL_Matlab/Papers/Thesis/Jagadees/plot_fourier_kernel.m
@@ -5,7 +5,7 @@ n = 512;
 shape_param = [0.2 0.8];
 order = [1 2];
 bvec = [0.2 0.8];
-dim = 2;
+dim = 1;
 
 % using uniform points
 l = linspace(0,1,n);
@@ -30,6 +30,7 @@ if dim==1
   xlabel('\(x\)')
   ylabel('\(C_{\theta}(x,0.3)\)')
   legend(leg_text, 'Interpreter','latex','location','best')
+  legend boxoff
   axis tight
 
   figSavePathName = sprintf('fourier_kernel dim_1.png');
